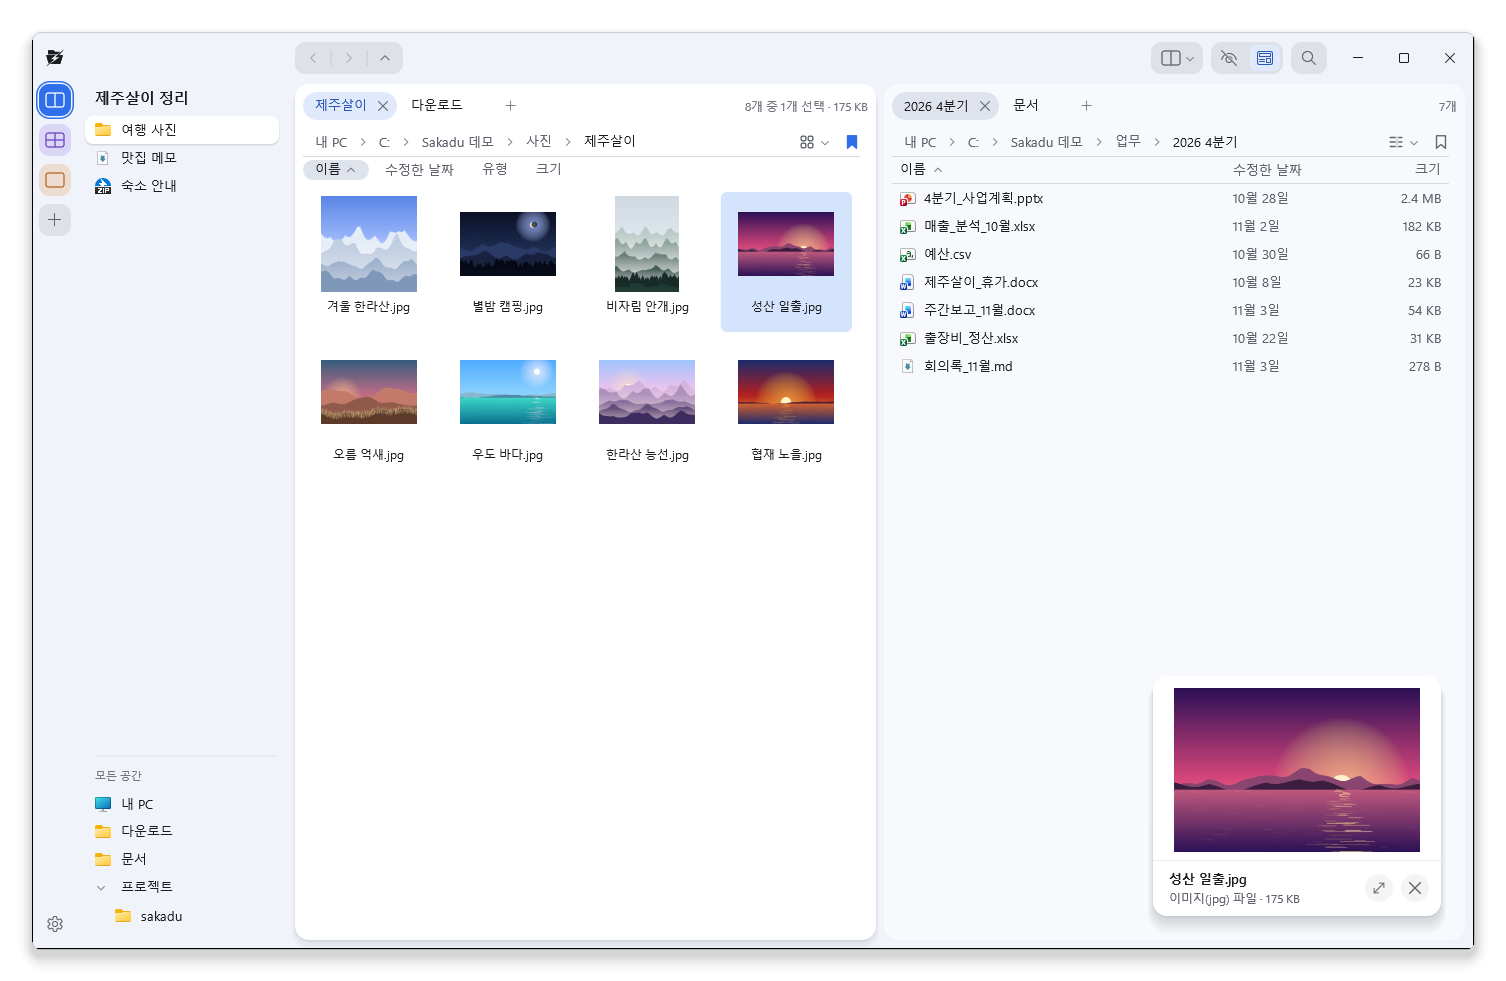
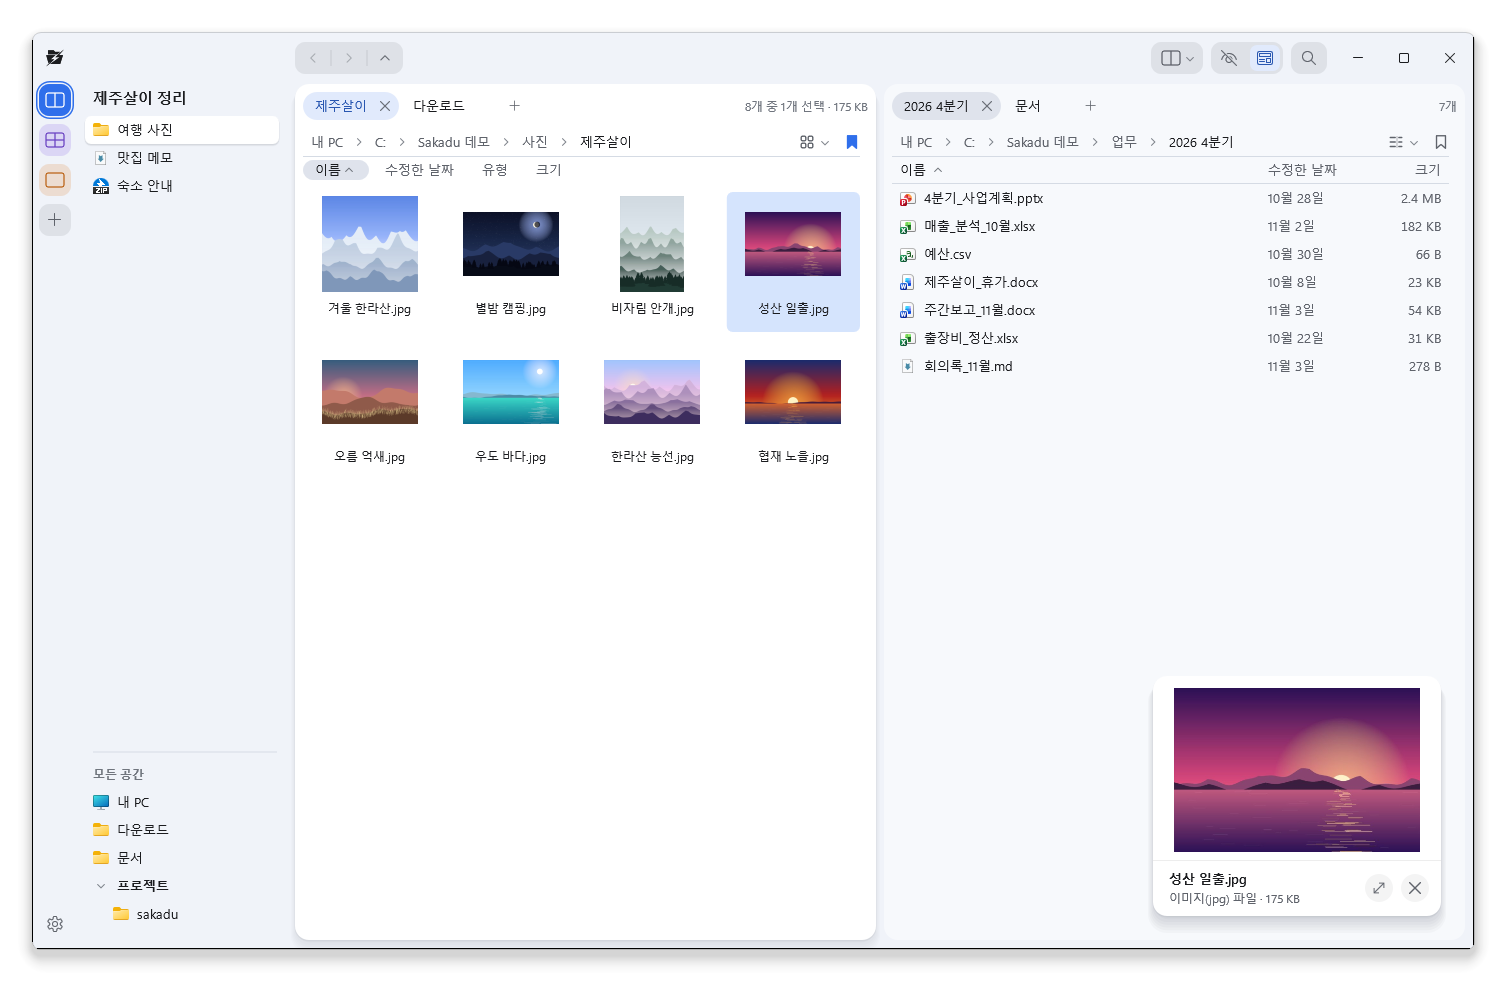
0.10.0 준비: 판 번호, README 글과 화면

diff --git a/README.en.md b/README.en.md
@@ -17,6 +17,7 @@ A Windows file manager that keeps several folders open side by side and finds an
 - **Ctrl+K command menu**: jump to an open tab, pinned place or recent location, or find and run a command by name (Korean initial consonants work too).
 - **Works like Explorer**: right-click menus, the copy progress dialog and drag and drop behave as they do in Explorer. Moved something by mistake? Use the **되돌리기** (undo) button on the notice, or Ctrl+Z.
 - **Look before you open**: select a file and a preview card appears at the bottom of the neighbouring pane: pictures and text, and also the first page of PDFs and PowerPoint files, a frame of a video, Hangul (hwp) documents and SVG. Excel and Word files open in the preview pane (Alt+P), where you can pin a reference file to keep it in view.
+- **Archives open like folders**: double-click a zip, 7z or tar file to browse inside it. Open files straight from it or drag them out; the inside is read-only.
 - **Workspaces**: switch workspaces from the rail on the left. Each one remembers its own layout (panes and tabs), pinned places and color. Drag pinned places and the favorites under '모든 공간' (all spaces) to reorder them, put them into groups or move them between the two. A new tab opens on your pinned places and recent locations.
 - **NAS**: shares that need a sign-in open through the Windows sign-in dialog, and a dropped connection shows the last list you saw.
 - **Light**: no runtime or web view; it's Rust drawing with Direct2D. Dark mode follows your Windows setting.
@@ -99,7 +100,7 @@ cargo test
 - Tests that touch the shell or the service, and benchmarks: `cargo test --release -- --ignored --nocapture`
 - Test switches: `SAKADU_THEME=dark|light`, `SAKADU_TRAY=0|1`, `SAKADU_ISOLATED=1` (a test window that runs next to your own Sakadu; also point `APPDATA` and `LOCALAPPDATA` elsewhere)
 - Releases: bump `version` in `Cargo.toml` and push a tag like `v0.7.0`; GitHub Actions builds a draft release.
-- Code: `app.rs` (layout, input, drawing) and `app/` (panels, search, preview, command menu, start page, settings), `index.rs`·`service.rs` (search index and service), `shell.rs` (shell menus, file operations), `listing.rs` (folder reading)
+- Code: `app.rs` (layout, input, drawing) and `app/` (panels, search, preview, command menu, start page, settings), `index.rs`·`service.rs` (search index and service), `shell.rs` (shell menus, file operations), `archive.rs` (reading inside archives), `listing.rs` (folder reading)
 - Shared code: the modules in `src/lib.rs` (pane and tab state, saved formats, name search and query rules, natural sort) build without the Windows API. To prepare a macOS version, CI checks them on macOS with `cargo test --lib`.
 - Mac prototype: `src/mac/` (`cargo build --features mac-app --bin sakadu-mac`). Mac search uses its own index (`src/mac/search.rs`): once turned on, it reads the names under the home folder and the app folders into memory only, and keeps them current with the macOS change log (FSEvents).
 

diff --git a/README.md b/README.md
@@ -15,6 +15,7 @@
 - **Ctrl+K 명령 메뉴**: 열린 탭·고정한 곳·최근 위치로 가고, 명령을 이름이나 초성으로 찾아 실행해요.
 - **탐색기와 같은 동작**: 우클릭 메뉴, 복사 진행 창, 끌어서 놓기가 탐색기와 같아요. 잘못 옮기면 알림의 **되돌리기**나 Ctrl+Z.
 - **열지 않고 확인**: 파일을 고르면 미리 보기 카드가 옆 칸 아래에 저절로 떠요. 그림·글뿐 아니라 PDF·파워포인트 첫 장, 동영상 장면, 한글(hwp) 문서, SVG도 보여요. 엑셀·워드는 미리 보기 창(Alt+P)에서 보고, 참고할 파일은 거기에 고정해 둬요.
+- **압축 파일도 폴더처럼**: zip·7z·tar 파일을 두 번 누르면 폴더처럼 들어가 안을 둘러봐요. 안의 파일은 바로 열거나 끌어서 꺼내고, 안은 읽기만 해요.
 - **작업 공간**: 왼쪽 레일에서 작업 공간을 바꿔요. 공간마다 화면(칸·탭)과 고정한 곳, 색을 따로 기억해요. 고정한 곳과 '모든 공간'의 즐겨찾기는 끌어서 순서를 바꾸고, 그룹에 넣고, 서로 옮겨요. 새 탭에는 고정한 곳과 최근 위치가 바로 보여요.
 - **NAS**: 로그인이 필요한 공유는 Windows 로그인 창으로 열고, 연결이 끊기면 마지막으로 본 목록을 보여 줘요.
 - **가벼움**: 런타임·웹뷰 없이 Rust와 Direct2D로 직접 그려요. 다크 모드는 Windows 설정을 따라가요.
@@ -97,7 +98,7 @@ cargo test
 - 셸·서비스와 붙는 테스트와 성능 측정: `cargo test --release -- --ignored --nocapture`
 - 시험용 환경 변수: `SAKADU_THEME=dark|light`, `SAKADU_TRAY=0|1`, `SAKADU_ISOLATED=1`(쓰고 있는 Sakadu와 따로 뜨는 시험 창. `APPDATA`·`LOCALAPPDATA`도 다른 폴더로 돌려 두세요)
 - 릴리스: `Cargo.toml`의 `version`을 올리고 `v0.7.0` 같은 태그를 푸시하면 GitHub Actions가 초안 릴리스를 만들어요.
-- 코드: `app.rs`(레이아웃·입력·그리기)와 `app/`(패널·검색·미리 보기·명령 메뉴·시작 화면·설정), `index.rs`·`service.rs`(검색 인덱스·서비스), `shell.rs`(셸 메뉴·파일 작업), `listing.rs`(폴더 읽기)
+- 코드: `app.rs`(레이아웃·입력·그리기)와 `app/`(패널·검색·미리 보기·명령 메뉴·시작 화면·설정), `index.rs`·`service.rs`(검색 인덱스·서비스), `shell.rs`(셸 메뉴·파일 작업), `archive.rs`(압축 파일 안 읽기), `listing.rs`(폴더 읽기)
 - 공통 코드: `src/lib.rs`에 묶인 모듈(칸·탭 상태, 저장 형식, 이름 검색과 검색어 규칙, 자연 정렬)은 Windows API 없이도 빌드돼요. macOS 버전을 준비하려고 CI가 macOS에서 `cargo test --lib`로 확인해요.
 - 맥 시제품: `src/mac/` (`cargo build --features mac-app --bin sakadu-mac`). 맥 검색은 자체 색인(`src/mac/search.rs`)이에요: 켜면 홈 폴더와 응용 프로그램 폴더의 이름을 훑어 메모리에만 두고, 맥의 변경 기록(FSEvents)으로 최신으로 둬요.
 
